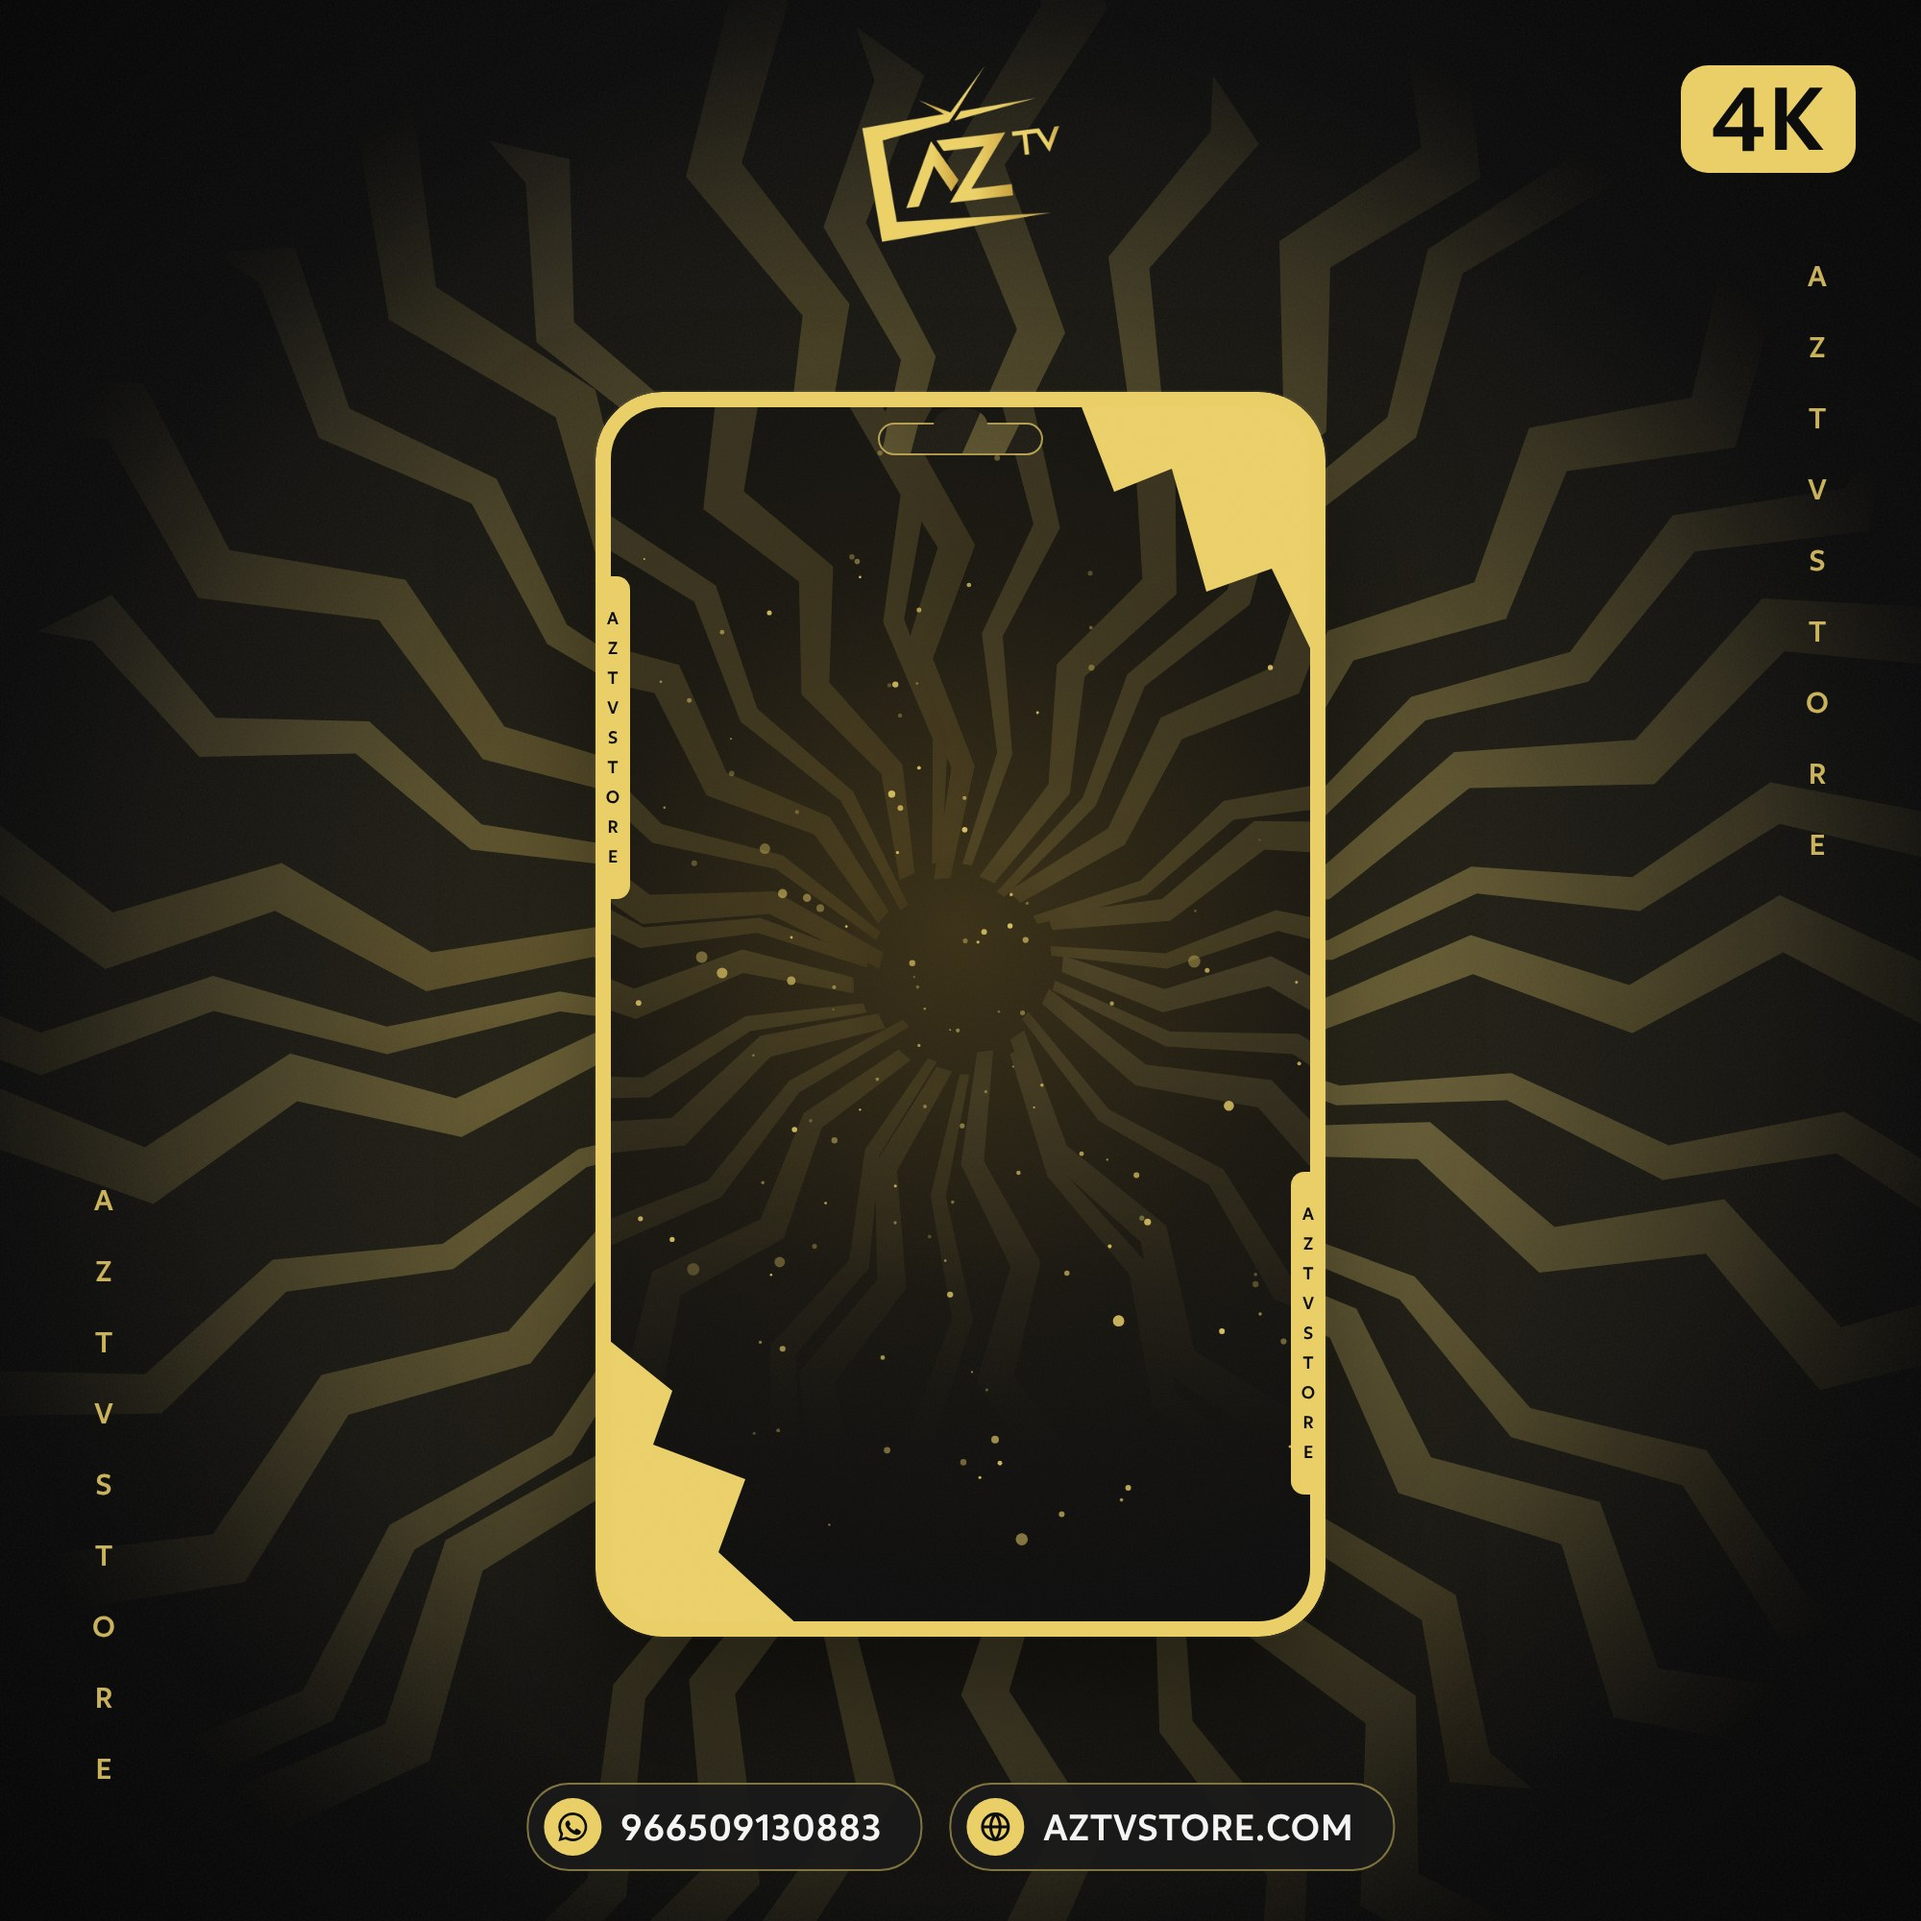
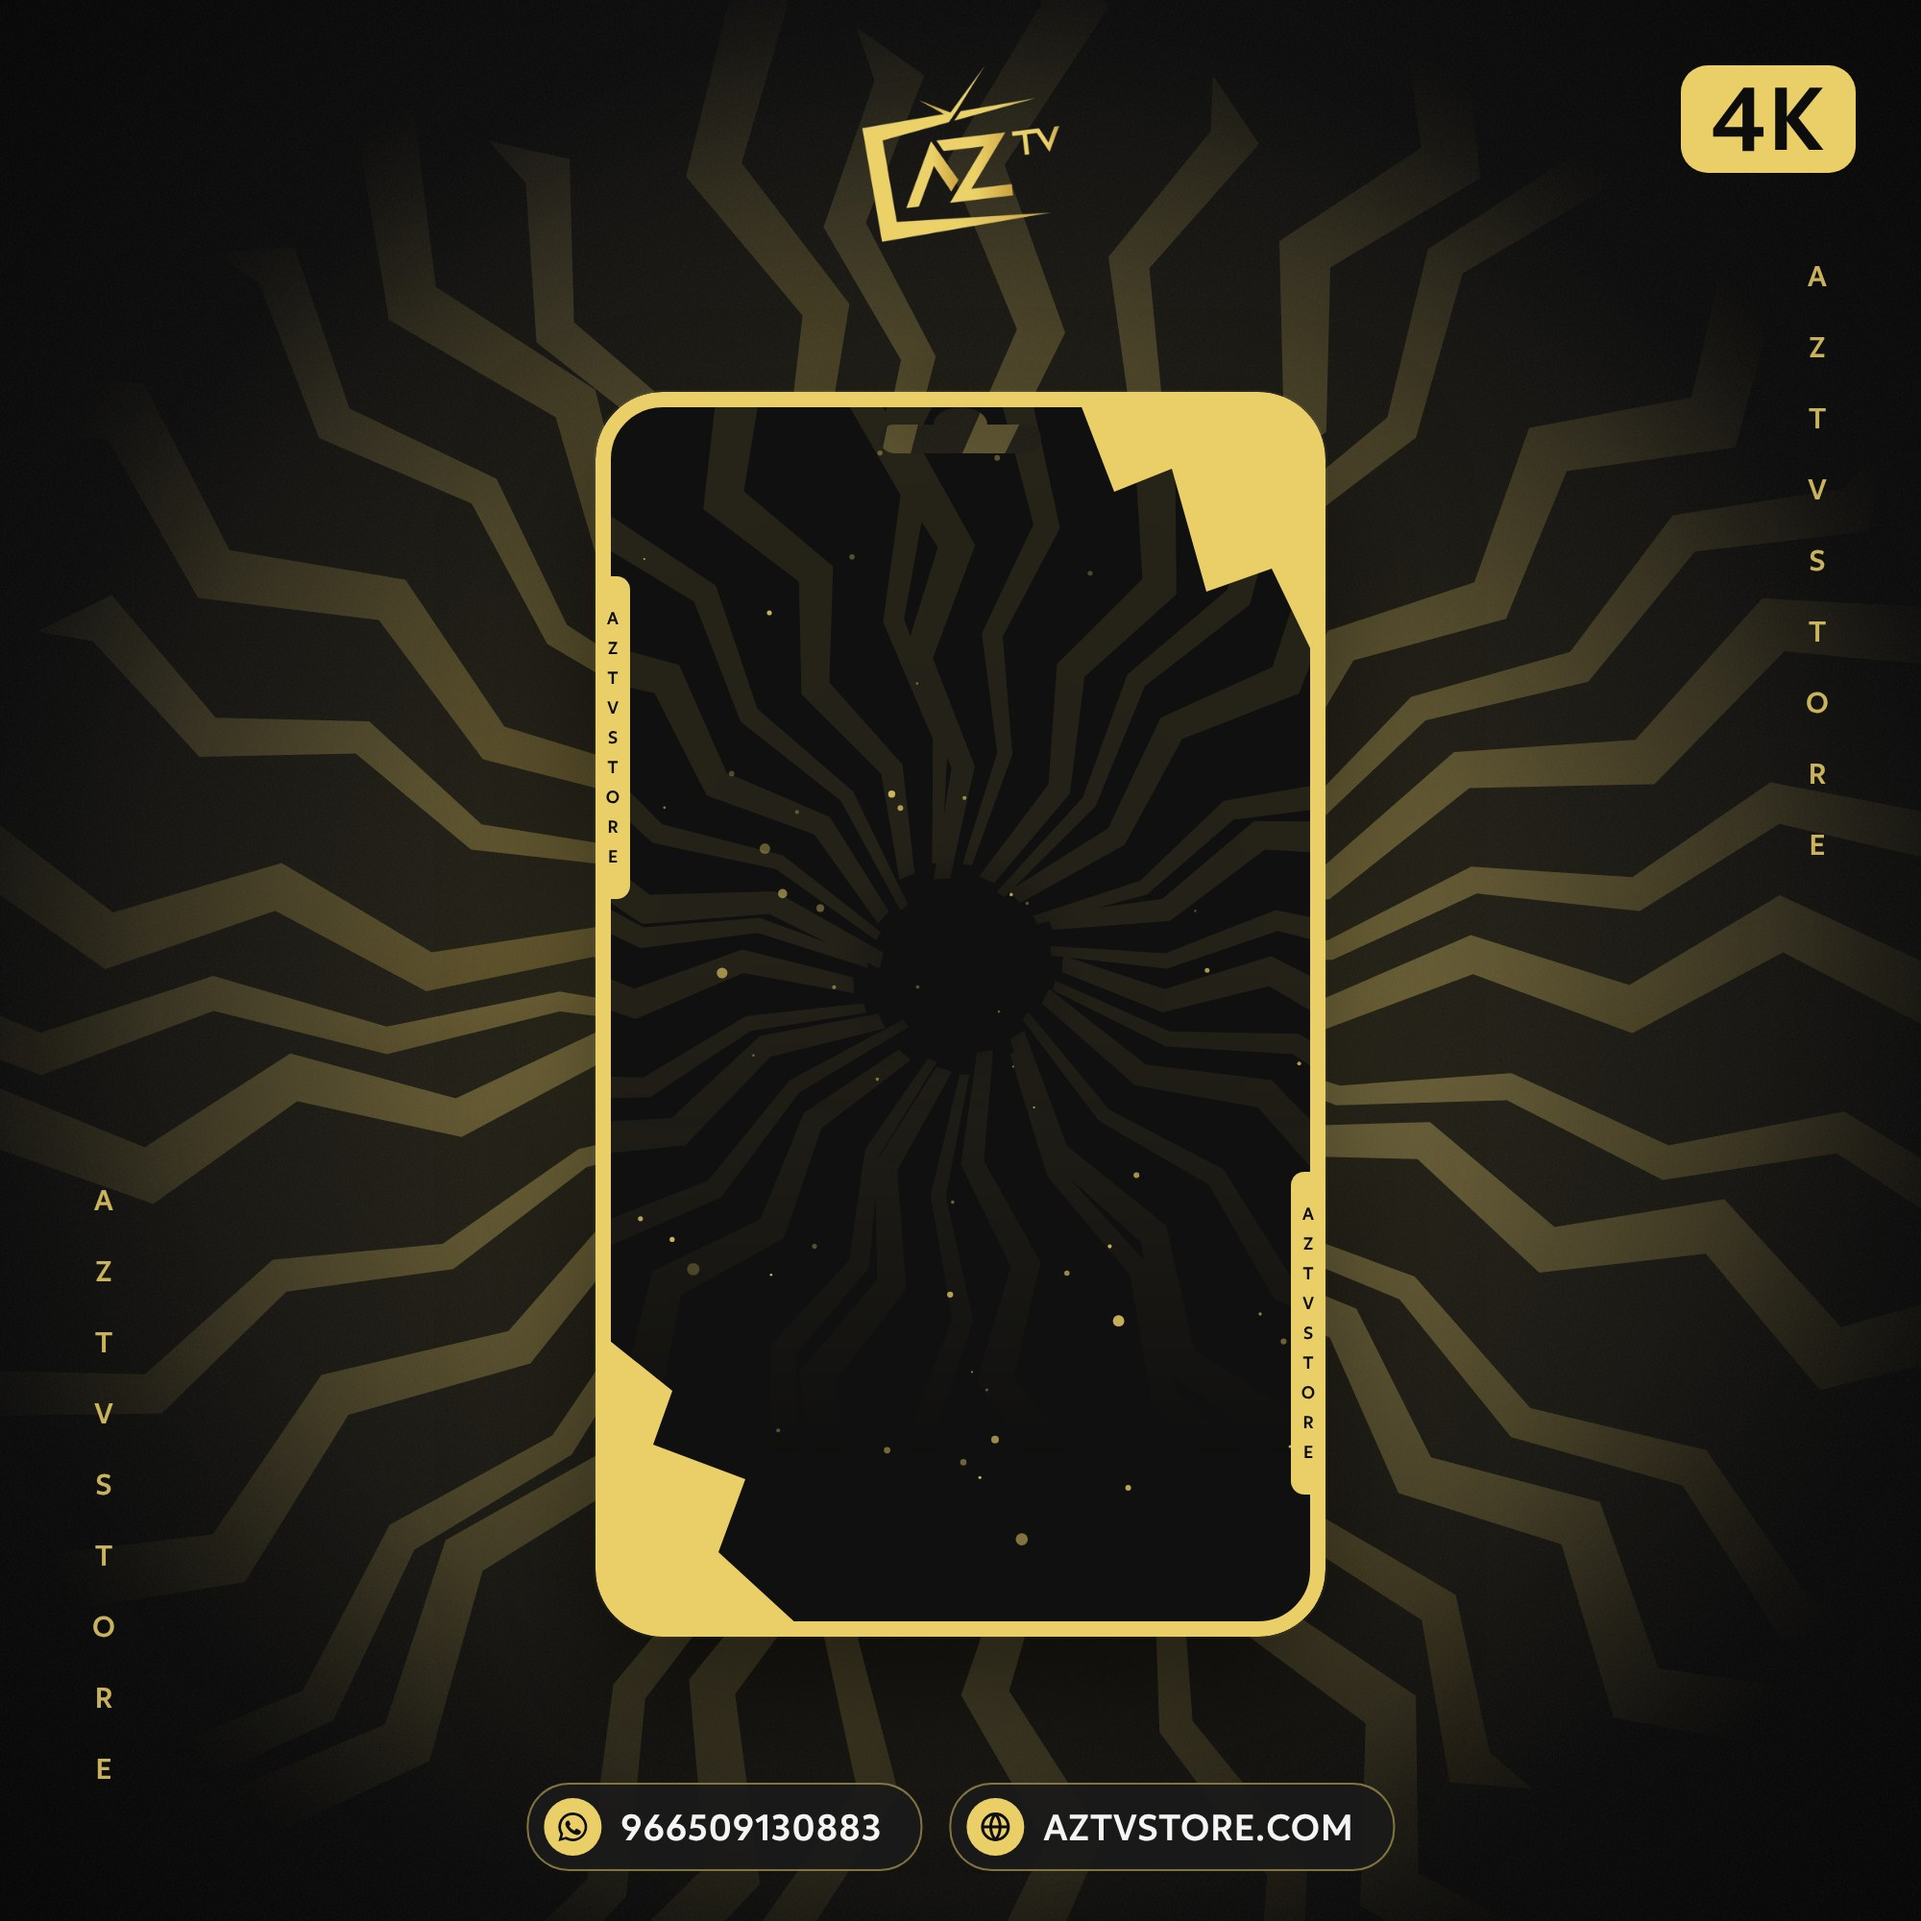
Plus cards: flat gold, no gradients or outlines, plain package line
Flat black background with faint flat gold rays and a few dust specks (no
grain, no dark floor gradient), flat gold title pill, package line without
a box, dark grey duration and logo pills with no border, softer centre
light, hanger slot without an outline.

Claude-Session: https://claude.ai/code/session_01FygVLnFo91EcE1sreJGJg8

Changed region(s): [[0.341, 0.31, 0.682, 0.651]]

diff --git a/05-design/shared/subscription-cards/card.html b/05-design/shared/subscription-cards/card.html
@@ -72,14 +72,15 @@
 
   /* AZ TV Plus: black card, gold accents, warm photos */
   /* warm light at the burst centre: bright enough to hide where the rays meet behind the faces */
-  .plus .glow { background: radial-gradient(circle at 190px 300px, rgba(255,240,190,1) 0, rgba(250,226,150,.95) 44px, rgba(238,210,110,.75) 90px, rgba(234,207,105,.38) 145px, rgba(234,207,105,.12) 200px, rgba(234,207,105,0) 250px); }
+  .plus .glow { background: radial-gradient(circle at 190px 300px, rgba(244,226,150,.95) 0, rgba(238,214,120,.7) 70px, rgba(234,207,105,.25) 140px, rgba(234,207,105,0) 210px); }
   .plus .floor { background: linear-gradient(to top, rgba(13,13,13,1) 0, rgba(13,13,13,.92) 80px, rgba(13,13,13,.55) 140px, rgba(13,13,13,0) 210px); }
-  .plus .photos img { filter: grayscale(1) sepia(.55) saturate(1.25) contrast(1.12) brightness(.96); }
-  .plus .title { background: linear-gradient(180deg, #F4DE85, var(--gold) 55%, #C9A94A); color: var(--ink); box-shadow: 0 8px 22px rgba(0,0,0,.5); }
-  .plus .sub > span { border: 1.5px solid var(--gold); color: var(--white); box-shadow: 0 6px 16px rgba(0,0,0,.5); }
-  .plus .sub b { background: linear-gradient(180deg, #F4DE85, var(--gold) 55%, #C9A94A); }
-  .plus .duration span { background: var(--ink); color: var(--gold); border: 1.5px solid var(--gold); box-shadow: 0 6px 16px rgba(0,0,0,.5); }
-  .plus .logos { border: 1.5px solid var(--gold); box-shadow: 0 8px 22px rgba(0,0,0,.5); }
+  .plus .photos img { filter: grayscale(1) sepia(.4) saturate(1.1) contrast(1.1) brightness(.98); }
+  /* Plus is kept flat and quiet: solid gold, no gradients, no outlines, no shadows */
+  .plus .title { background: var(--gold); color: var(--ink); box-shadow: none; }
+  .plus .sub > span { background: none; box-shadow: none; padding: 0; gap: 12px; color: var(--white); font-size: 12px; letter-spacing: .26em; }
+  .plus .sub b { height: 26px; padding: 0 12px; background: var(--gold); font-size: 12.5px; }
+  .plus .duration span { background: #1C1B17; color: var(--gold); box-shadow: none; }
+  .plus .logos { background: #1C1B17; box-shadow: none; }
   .plus .badge span { background: var(--gold); border-color: var(--ink); }
   .plus.is-renew .glow { background: radial-gradient(circle at 190px 310px, rgba(234,207,105,.45) 0, rgba(234,207,105,.25) 130px, rgba(234,207,105,0) 220px); }
   .plus .renew .disc { fill: var(--ink); }
@@ -237,7 +238,7 @@ c.photos.forEach(p => {
     im.style.webkitMaskComposite = "source-in"; im.style.maskComposite = "intersect";
   }
   if (p.lift || p.gamma) {
-    const tone = c.plus ? `grayscale(1) sepia(.55) saturate(1.25) contrast(1.12) brightness(${p.lift || .96})` : `grayscale(1) contrast(1.15) brightness(${p.lift || 1.02})`;
+    const tone = c.plus ? `grayscale(1) sepia(.4) saturate(1.1) contrast(1.1) brightness(${p.lift || .98})` : `grayscale(1) contrast(1.15) brightness(${p.lift || 1.02})`;
     im.style.filter = (p.gamma ? `url(#${gammaFilter(p.gamma)}) ` : "") + tone;
   }
   photos.appendChild(im);

diff --git a/05-design/shared/subscription-cards/card-background.html b/05-design/shared/subscription-cards/card-background.html
@@ -7,7 +7,7 @@
 <!--
   The card's own background: what every subscription card shares before the title, photos and duration go on.
   AZ TV (regular): white card, bold black zigzag burst, the old cards' black and white look redrawn clean.
-  AZ TV Plus: black card, flat gold frame (no gradient, no inner line), flat gold corner shards, gold dust, side tabs, the old Plus look redrawn clean.
+  AZ TV Plus: black card, flat gold frame (no gradient, no inner line), flat gold corner shards, a few specks of gold dust, side tabs, the old Plus look redrawn clean.
   Both use the same jagged ray as the approved product background (../subscription-backgrounds/), so card and stage match.
 
   Size: 380 x 648 here, exported at 2x = 760 x 1296 (the card area of the approved backgrounds), corner radius 35,
@@ -159,7 +159,7 @@ if (!plus) {
   const burst = rays(30, 40, 430, 330, 17, 10, 16, 11);
   let dust = "";
   seed = 29;
-  for (let i = 0; i < 150; i++) {
+  for (let i = 0; i < 60; i++) {
     const a = rnd() * Math.PI * 2, d = Math.pow(rnd(), .7) * 250;
     const x = CX + Math.cos(a) * d * 1.05, y = CY + 20 + Math.sin(a) * d * 1.25;
     const r = rnd() < .85 ? .5 + rnd() * 1.1 : 1.6 + rnd() * 1.6;
@@ -173,18 +173,15 @@ if (!plus) {
       <stop offset="0" stop-color="#0D0D0D" stop-opacity="0"/><stop offset="1" stop-color="#0D0D0D" stop-opacity=".85"/>
     </linearGradient>
     <g mask="url(#cardShape)">
-      <rect width="${W}" height="${H}" fill="url(#stage)"/>
-      <g mask="url(#rayMaskDown)"><g mask="url(#rayMask)" fill="url(#gold)" opacity=".16">${burst}</g></g>
-      <rect y="440" width="${W}" height="${H - 440}" fill="url(#floorP)"/>
+      <rect width="${W}" height="${H}" fill="#101010"/>
+      <g mask="url(#rayMaskDown)"><g mask="url(#rayMask)" fill="#EACF69" opacity=".1">${burst}</g></g>
       <g fill="#EACF69">
         <polygon points="250,0 ${W},0 ${W},150 352,92 318,104 300,40 270,52"/>
         <polygon points="0,488 40,520 30,548 78,566 64,604 112,${H} 0,${H}"/>
       </g>
       <g fill="#EACF69">${dust}</g>
-      <rect width="${W}" height="${H}" filter="url(#grain)" opacity=".06"/>
       <rect x="4" y="4" width="${W - 8}" height="${H - 8}" rx="${R - 4}" fill="none" stroke="#EACF69" stroke-width="8"/>
       ${sideTabs("#EACF69", "#0D0D0D")}
-      <rect x="148" y="17" width="84" height="15" rx="7.5" fill="none" stroke="#EACF69" stroke-opacity=".7" stroke-width="2"/>
     </g>`;
 }
 

diff --git a/05-design/shared/subscription-cards/README.md b/05-design/shared/subscription-cards/README.md
@@ -57,6 +57,7 @@ Built from `card.html` in the accepted look of card 3, with the card photos 001-
 - **AZ TV Plus cards** (`plus: true`): the black and gold card background, gold title pill with black text, gold «AZ TV PLUS SUBSCRIPTION» line, warm gold-toned portraits, a bright warm light at the burst centre (hides where the rays meet behind the faces), a dark floor, black duration and logo pills with a gold edge.
 - **Renewal cards** (`renew: true`): no faces; three renewal arrows in a black disc at the burst centre (white on AZ TV, gold on Plus).
 - **Package line** under the title (all cards, 2026-10-24): a black pill (no side lines) with the package name in a chip, «AZ TV» (white chip) or «AZ TV PLUS» (gold chip), then «SUBSCRIPTION», or «RENEWAL» on the renewal cards. Replaces the small spaced-out «AZ TV SUBSCRIPTION» line, which was hard to read.
+- **Plus, kept flat (2026-10-24, client: too much going on):** solid gold everywhere, no gradients, outlines or shadows. Flat black background with faint flat gold rays and a few specks of dust, no grain. The package line has no box: a gold «AZ TV PLUS» chip and white «SUBSCRIPTION» beside it. The duration and logo pills are dark grey with no border, the title pill is flat gold, and the centre light is softer.
 - **Light on dark photos:** a photo can take `gamma` (below 1 opens the shadows of a dark face without blowing out the highlights; it also trims 1 px off the cut-out edge so no light fringe shows) next to `lift` (overall brightness). Used on cards 7 and 8, where the client found the faces too dark.
 - **Two devices** (card 6): a «جهازين · 2 DEVICES» badge with a two-screens icon above the duration (`badge`); the white kit toned down and the man behind lit and enlarged so the two faces match.
 - **Card backgrounds** (2026-10-24): the AZTVSTORE letters are centred on the visible part of each side tab (the tabs run 6 px past the card edge); the Plus frame, corner shards and tabs are flat gold, with no inner line.

diff --git a/PROJECT.md b/PROJECT.md
@@ -197,6 +197,7 @@ new store design/
 
 ## 10. Log
 
+- 2026-10-24: Plus cards simplified at the client's request (too much going on): flat gold instead of gradients, no outlines or shadows, plain package line (gold chip, white text, no box), dark grey duration and logo pills, flat black background with faint gold rays.
 - 2026-10-24: Client also rejected star S05 (Tom Holland, card 1); card 1 now has photo 012 (same actor) behind the player as a stand-in until another star is chosen.
 - 2026-10-24: Client marked ten photos as not usable: 001, 007, 008 and the latest-roles stars S01, S02, S04, S05, S06, S07, S08. Moved to `05-design/shared/subscription-cards/photos/rejected/`; never use them on a card. Cards 5, 7 and 8 are empty until new photos are chosen.
 - 2026-10-24: Client rejected cards 5, 7 and 8 (Plus 1 year, Plus 6 months, Plus 3 months). Sheet of all face photos with ids made for the client to pick which to drop: `05-design/shared/subscription-cards/photos/all-photos.jpg`.
